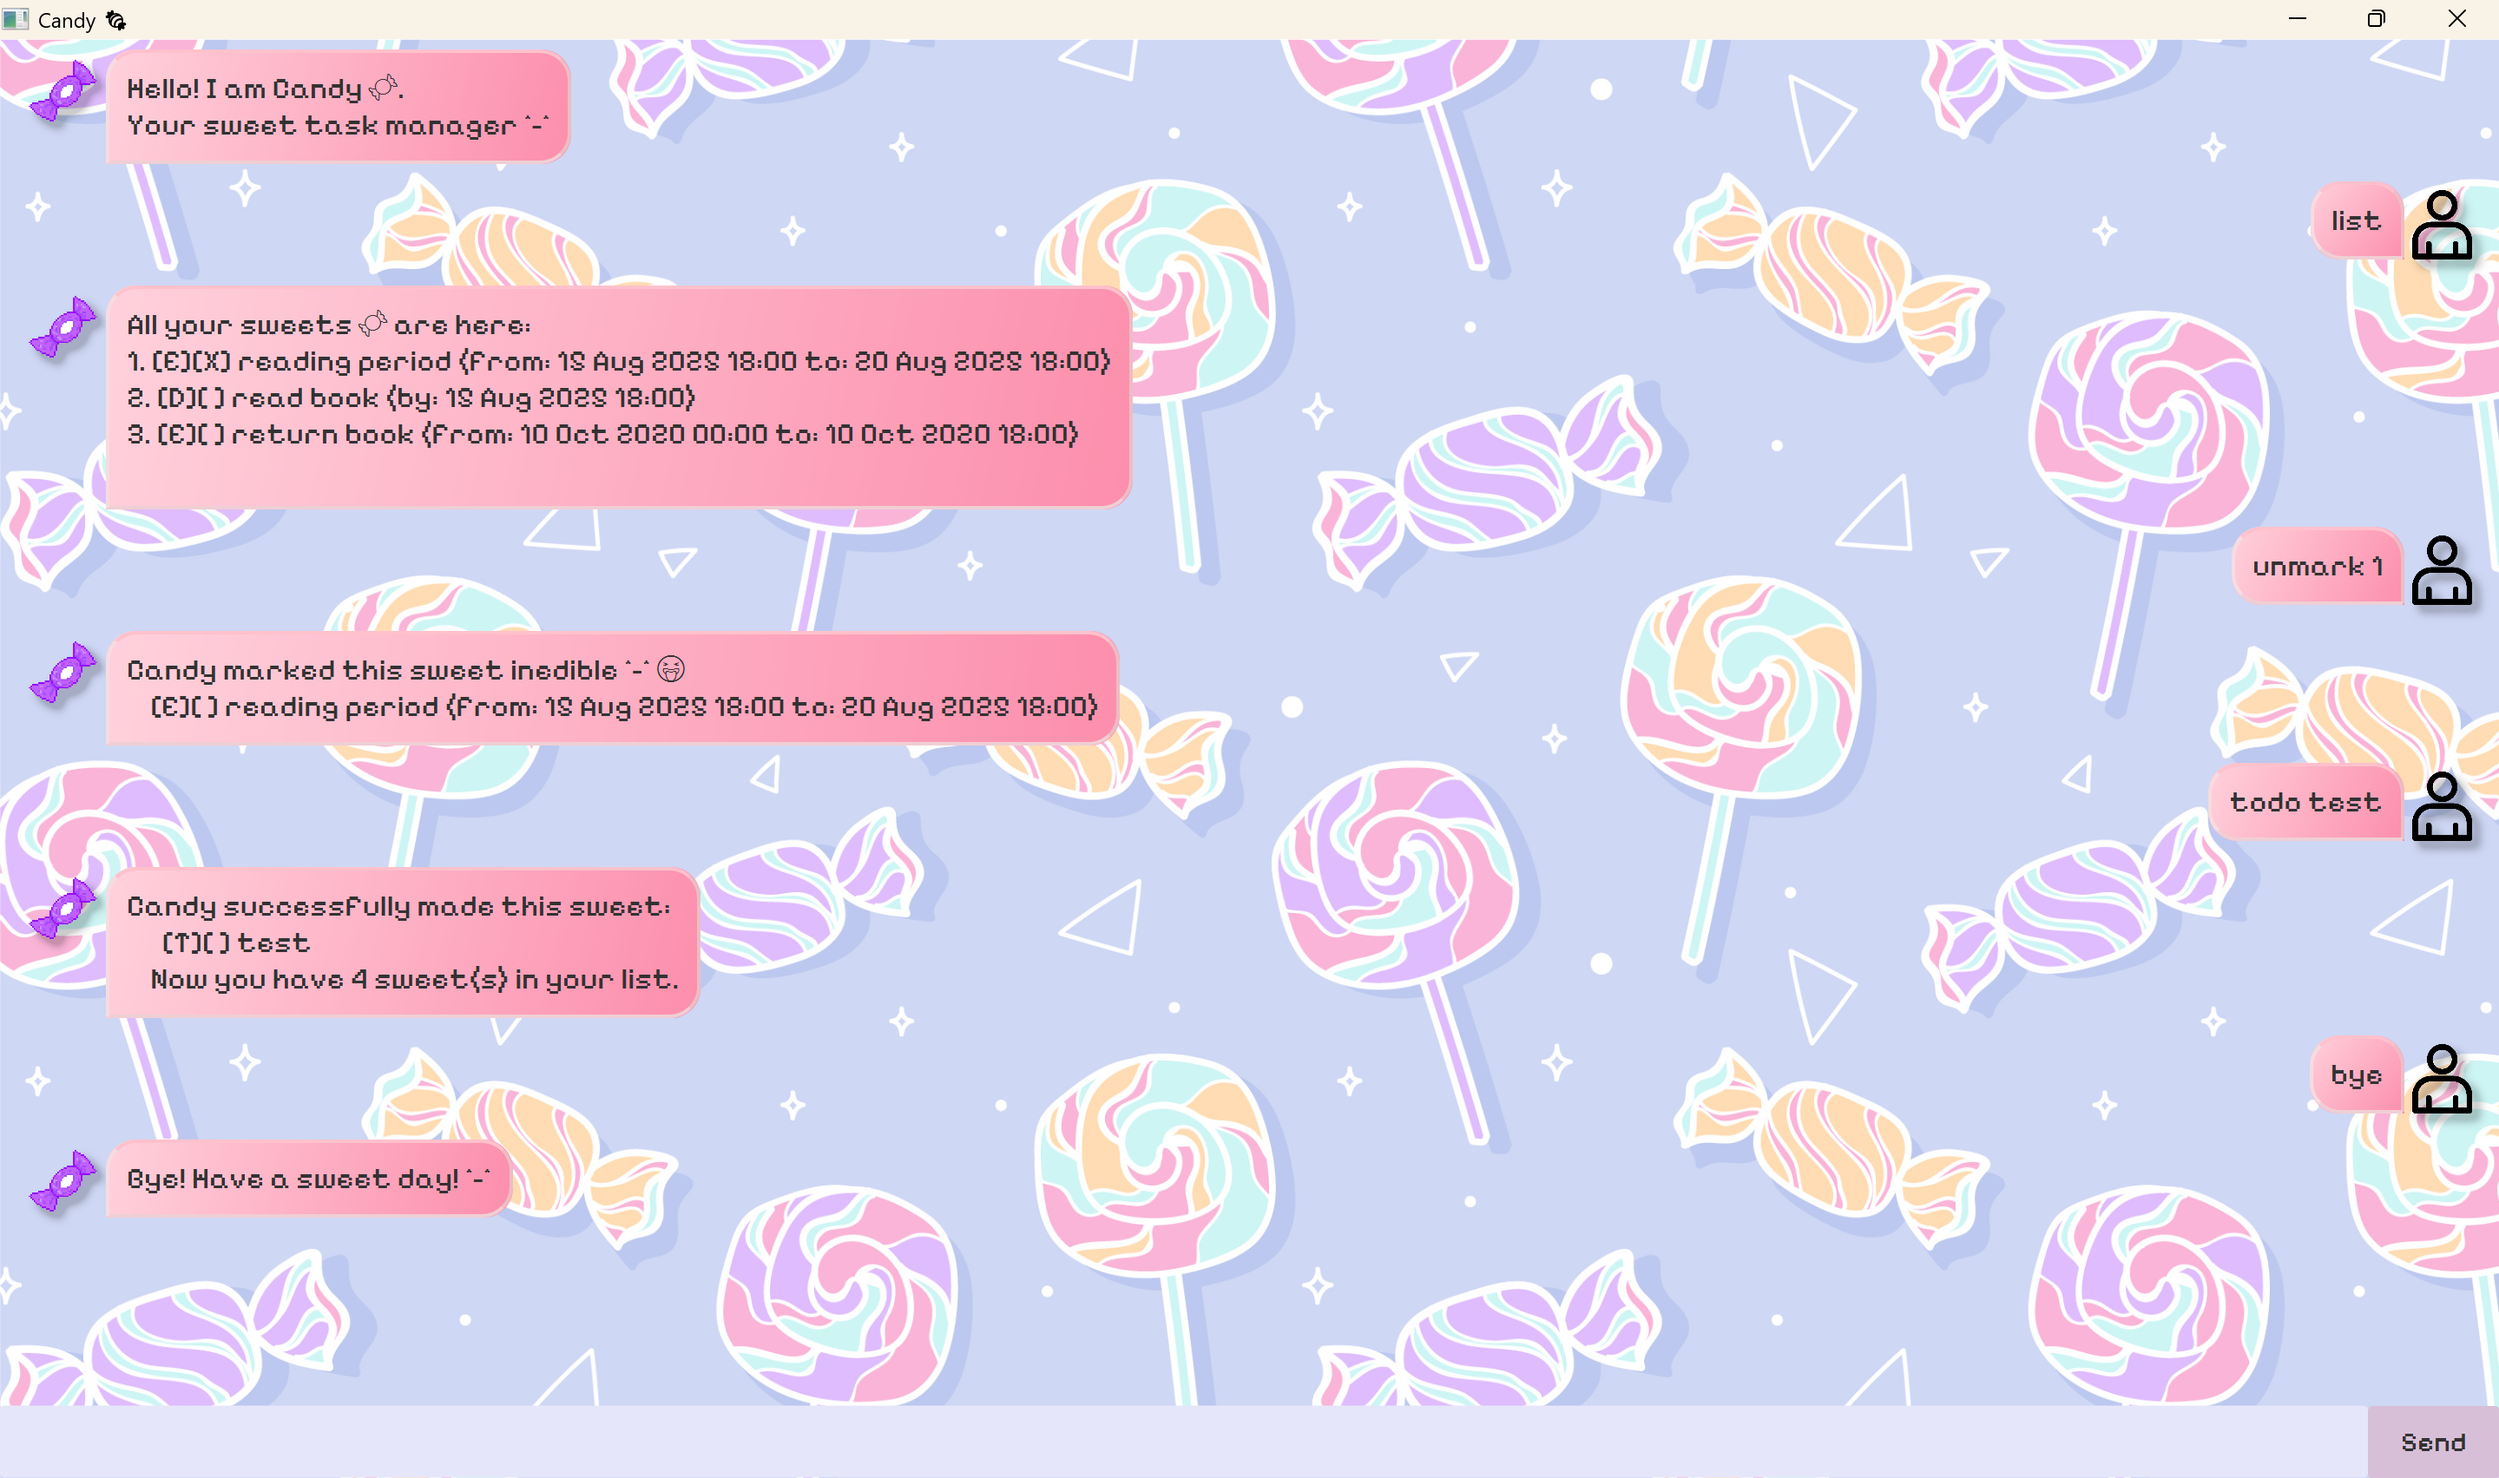
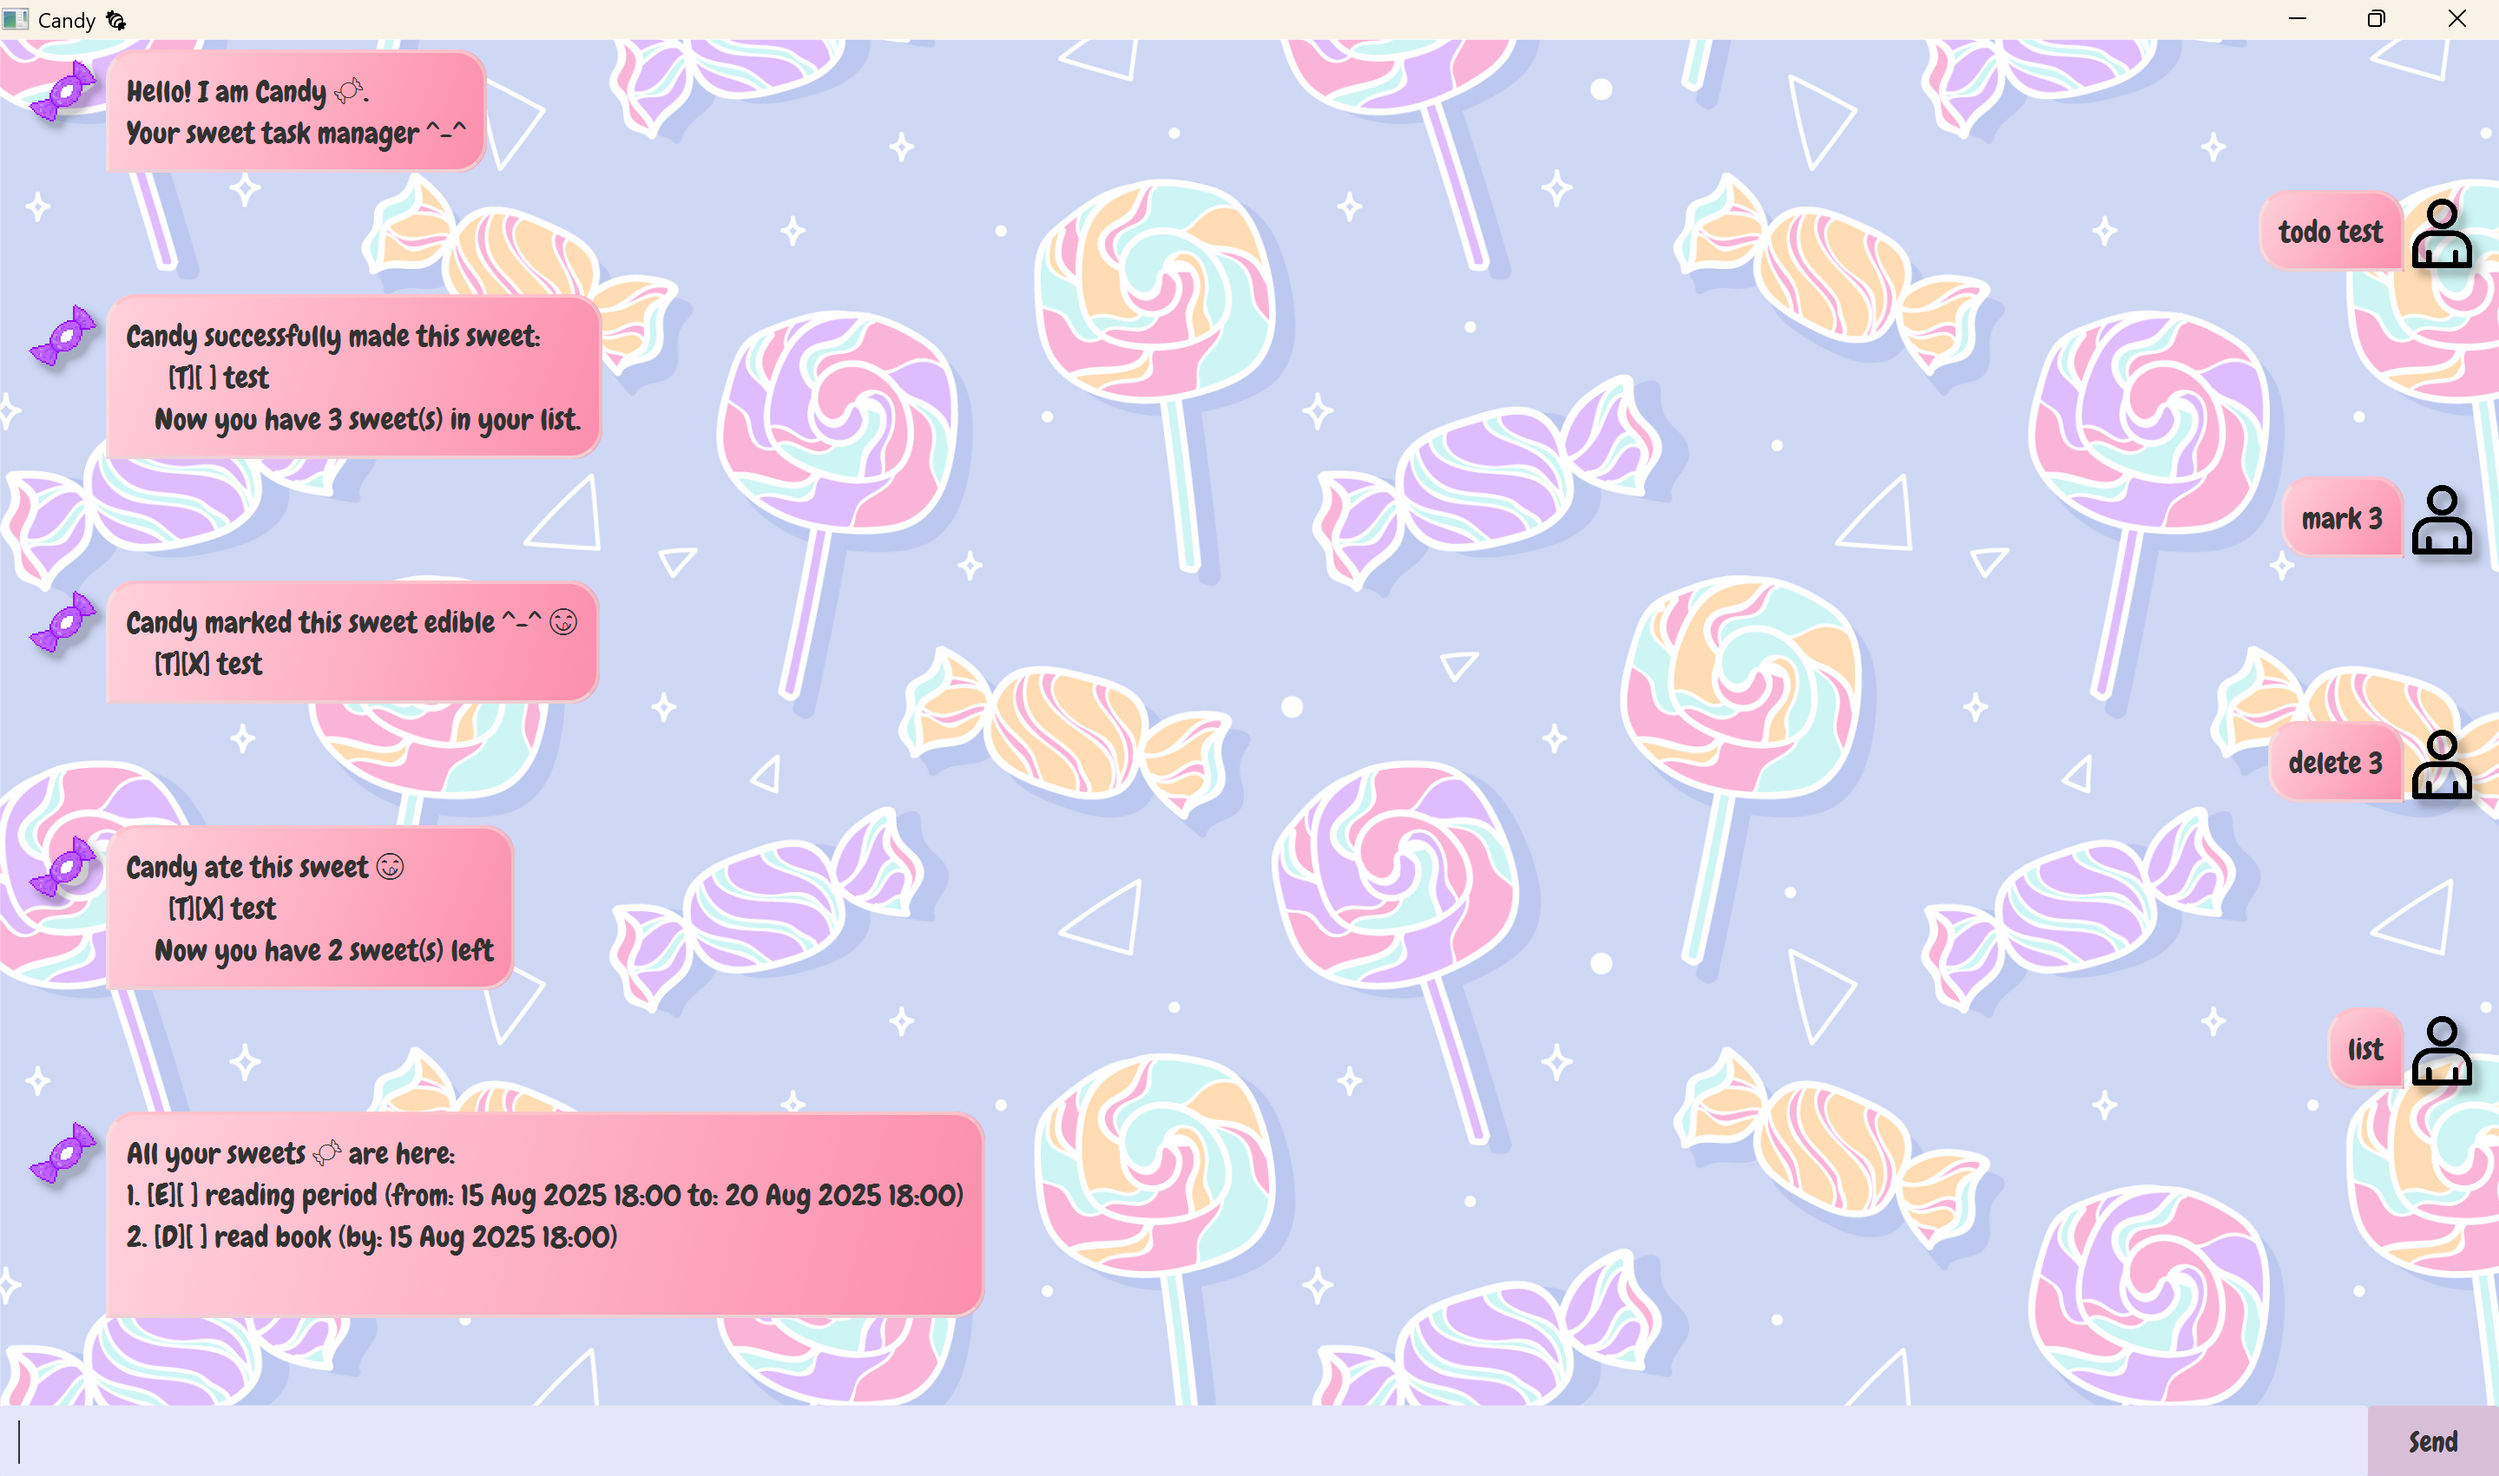
update readme

diff --git a/src/main/java/candy/Main.java b/src/main/java/candy/Main.java
@@ -25,6 +25,7 @@ public class Main extends Application {
         try {
             FXMLLoader fxmlLoader = new FXMLLoader(Main.class.getResource("/view/MainWindow.fxml"));
             //Font from google font
+            //chatGPT to help with the method for loading font:
             Font.loadFont(getClass().getResource("/fonts/Chewy-Regular.ttf").toExternalForm(), 10);
             AnchorPane ap = fxmlLoader.load();
             Scene scene = new Scene(ap);

diff --git a/docs/README.md b/docs/README.md
@@ -114,7 +114,7 @@ Candy ate this sweet 😋
 ### 7. List task
 Unsure of task number?
 
-Type `list`!
+Type `list` to show the list of task(s)!
 
 Candy will show you your list of task:
 ```
@@ -127,7 +127,7 @@ All your sweets 🍬 are here:
 ### 8. Find task
 Want to find specific tasks?
 
-Type `find <keyword>`!
+Type `find <keyword>` to find your task(s)!
 
 For example, type:
 `find book`
@@ -144,7 +144,8 @@ Candy found these sweets 🍬 !
 Typed wrongly? Want to change the details?
 
 Type 
-`edit <task number> /<task> <start time if any> <end time if any>!`
+`edit <task number> /<task> <start time if any> <end time if any>` 
+to edit the task chosen!
 
 For example, type:
 `edit 1 /return book /by 20-08-2025 2359`
